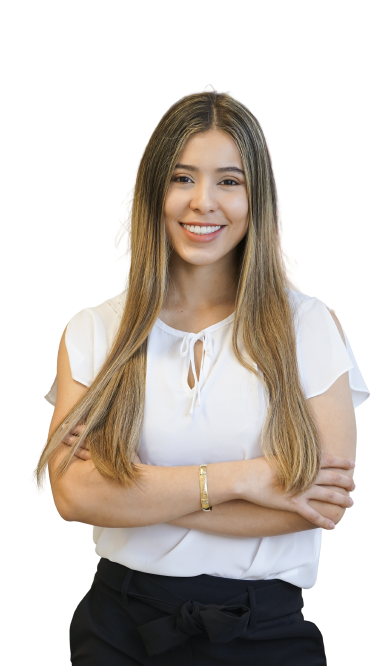
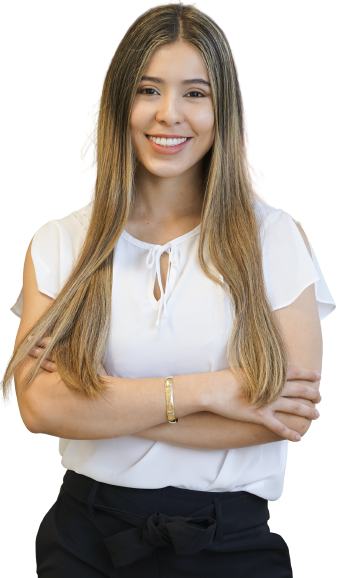
improvements

diff --git a/src/pages/Home/Home.jsx b/src/pages/Home/Home.jsx
@@ -8,26 +8,26 @@ export default function Home() {
       });
 
     return(
-        <section id="home">
-            
-                <div className="home-info">
+        <section id="home" className="m-0">
+           
+            <Col className="home-info" lg={6} sm={12}>
                     <h3>👋 HI, I AM</h3>
                     <h1 className="h1-name">Camila</h1>
                     <h3>A <span>{text}</span>{" "}<span><Cursor /></span></h3>
-                    <div style={{textAlign:"center"}}>
-                    </div>
-                </div>
-                <div className="home-circle d-none d-lg-block">
-                    <img src="images/circle.png" alt="White circle background" height={700}/>
-                </div>
-                <div className="home-profile-picture">
-                    <img src="images/profile.png" alt="Camila Sandoval profile pic"  height={740}/>
-                </div>
-                <div className="button-class d-none d-md-block">
+                    
+                </Col>
+                <Col className="home-circle d-none d-lg-block">
+                    <img src="images/circle.png" alt="White circle background" height={650} />
+                </Col>
+                <Col className="home-profile-picture" lg={4} sm={12}>
+                    <img src="images/profile.png" alt="Camila Sandoval profile pic"  height={655} />
+                </Col>
+                <Col className="button-class d-none d-lg-block" lg={1}>
                     <a href="mailto:csandoval.eng@gmail.com">
                     <button   className="touch">Get in touch!</button>
                     </a>
-                </div>
+                </Col>
+            
         </section>      
     )
 }

diff --git a/src/pages/Home/Home.css b/src/pages/Home/Home.css
@@ -9,16 +9,16 @@
 
 .home-circle{
     position: absolute;
-    left: 26%;
-    top:11.5%;
+    left: 35%;
+    top:15%;
     filter: drop-shadow(1px 1px 10px rgba(172, 175, 255, 0.919));
     z-index: 0;
 }
 
 .home-profile-picture{
-    position: absolute;
-    left: 35%;
-    top:6.2%;
+    position: relative;
+
+    top: 9.2%;
     filter: drop-shadow(1px 1px 20px rgba(172, 175, 255, 0.919));
     z-index: 0;
 }
@@ -59,15 +59,15 @@
 
 @media (max-width: 730px) { 
     .home-profile-picture img{
-        padding-top: 140px;
+        height: 80%;
         
     }
-    .home-profile-picture{
-        position: absolute;
-        left: 5%;
-        top:11.8%;
-        
-    }
+    
+    
+    /* .home-circle img{
+        height: 10%;
+    } */
+    
     
     .home-info{
         padding-top: 30px;

diff --git a/src/pages/About/About.jsx b/src/pages/About/About.jsx
@@ -7,11 +7,11 @@ export default function About() {
         <Container id="about" >
         <h1>About Me</h1>
         <Row className="about-container">
-            <Col className="about-image-container" md={5}>
+            <Col className="about-image-container" lg={5} md={7} xs={8}>
                 <img className="img-fluid" src="/images/cs23.png" alt="Camila Sandoval photograpy" />
             </Col>
             
-            <Col  className="about-text-container" md={5}>
+            <Col  className="about-text-container" lg={5} md={12}  xs={11}>
                 <h3 style={{ color: "#FF479A" }}>A little bit about me</h3>
                 <h2>I am Camila Sandoval</h2>
                 <h3 style={{ color: "gray" }}>An Engineer based in the United States</h3>

diff --git a/public/index.html b/public/index.html
@@ -2,14 +2,14 @@
 <html lang="en">
   <head>
     <meta charset="utf-8" />
-    <link rel="icon" href="%PUBLIC_URL%/favicon.ico" />
+    <link rel="icon" href="%PUBLIC_URL%/meta/favicon.ico" />
     <meta name="viewport" content="width=device-width, initial-scale=1" />
     <meta name="theme-color" content="#000000" />
     <meta
       name="description"
       content="Web site created using create-react-app"
     />
-    <link rel="apple-touch-icon" href="%PUBLIC_URL%/logo192.png" />
+    <link rel="apple-touch-icon" href="%PUBLIC_URL%/meta/logo192.png" />
     <!--
       manifest.json provides metadata used when your web app is installed on a
       user's mobile device or desktop. See https://developers.google.com/web/fundamentals/web-app-manifest/

diff --git a/src/pages/Projects/Panel.jsx b/src/pages/Projects/Panel.jsx
@@ -1,9 +1,9 @@
-import { Col, Card, Image } from "react-bootstrap";
+import { Col } from "react-bootstrap";
 import "./Projects.css"
 
 export default function Panel({data: {id, name, cover, website, about2}}) {
     return(
-            <Col className="d-flex justify-content-center" key={id} sm={12} md={6} lg={4}>
+            <Col key={id} className="d-flex justify-content-center" sm={12} md={7} lg={5} xl={4}>
                 <a className="links-cards" href={website} target="_blank">
                 <div className="card-wrapper">
                     <img className="card-image" src={cover}/>

diff --git a/src/pages/About/About.css b/src/pages/About/About.css
@@ -1,6 +1,7 @@
 .about-container{
-    padding-top: 40px;
+    padding-top: 3%;
     justify-content: center;
+    align-items: center;
 }
 
 .about-image-container{
@@ -30,14 +31,3 @@
 
 }
 
-@media (max-width: 730px) { 
-    #about{
-        padding-left: 50px;
-        padding-right: 50px;
-    }
-
-    .about-text-container{
-        margin-top: 25px !important;
-        padding-left: 0;
-    }
-}
